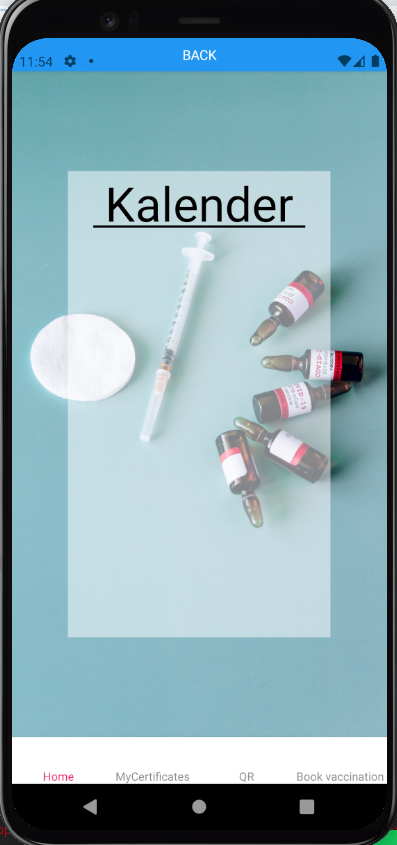
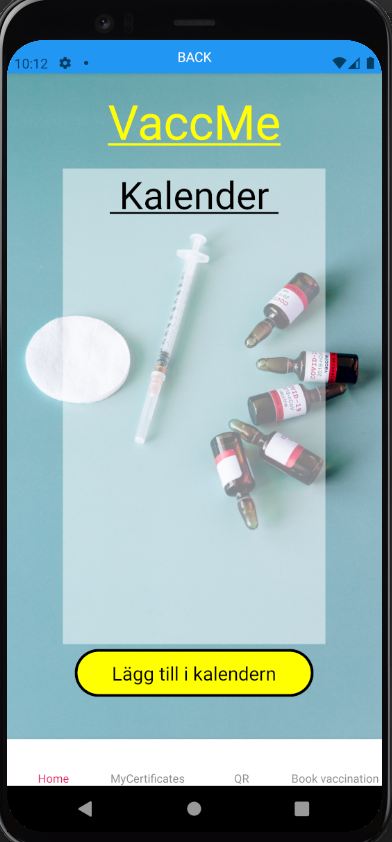
Integrated front_end_home into this branch. Uppdated PersonBookScreen

diff --git a/VaccMe/app/screens/PersonBookScreen.js b/VaccMe/app/screens/PersonBookScreen.js
@@ -1,5 +1,5 @@
 import React from 'react';
-import { ImageBackground, StyleSheet } from 'react-native';
+import { Image, ImageBackground, Text, View } from 'react-native';
 import { styleSheets } from '../styleSheets/StyleSheets';
 
 function PersonBookScreen(props) {
@@ -7,7 +7,25 @@ function PersonBookScreen(props) {
         <ImageBackground
             style={styleSheets.background}
             source={require('../assets/background.jpg')}
-        ></ImageBackground>
+        >
+            <View style={styleSheets.logo}>
+                <Text style={styleSheets.name}>VaccMe</Text>
+            </View>
+            <View style={styleSheets.tabSheet}>
+                <Text style={styleSheets.tabSheetHeader}>Boka vaccination</Text>
+                <Image
+                    style={styleSheets.vardguiden}
+                    source={require('../assets/1177.png')}
+                    onPress={() =>
+                        Linking.openURL(
+                            'https://www.1177.se/behandling--hjalpmedel/vaccinationer/'
+                        )
+                    }
+                ></Image>
+            </View>
+
+            <View style={styleSheets.filler}></View>
+        </ImageBackground>
     );
 }
 

diff --git a/VaccMe/app/screens/PersonCertScreen.js b/VaccMe/app/screens/PersonCertScreen.js
@@ -1,5 +1,5 @@
 import React from 'react';
-import { ImageBackground, StyleSheet } from 'react-native';
+import { ImageBackground, Text, TouchableHighlight, View } from 'react-native';
 import { styleSheets } from '../styleSheets/StyleSheets';
 
 function PersonCertScreen(props) {
@@ -7,7 +7,21 @@ function PersonCertScreen(props) {
         <ImageBackground
             style={styleSheets.background}
             source={require('../assets/background.jpg')}
-        ></ImageBackground>
+        >
+            <View style={styleSheets.logo}>
+                <Text style={styleSheets.name}>VaccMe</Text>
+            </View>
+            <View style={styleSheets.tabSheet}>
+                <Text style={styleSheets.tabSheetHeader}> Mina intyg </Text>
+            </View>
+            <View style={styleSheets.filler}>
+                <TouchableHighlight style={styleSheets.touchableHighlight}>
+                    <Text style={styleSheets.touchableHighlightText}>
+                        Lägg till intyg
+                    </Text>
+                </TouchableHighlight>
+            </View>
+        </ImageBackground>
     );
 }
 

diff --git a/VaccMe/app/screens/PersonHomeScreen.js b/VaccMe/app/screens/PersonHomeScreen.js
@@ -1,5 +1,5 @@
 import React from 'react';
-import { ImageBackground, Text, View } from 'react-native';
+import { ImageBackground, Text, TouchableHighlight, View } from 'react-native';
 import { styleSheets } from '../styleSheets/StyleSheets';
 
 function PersonHomeScreen(props) {
@@ -8,8 +8,18 @@ function PersonHomeScreen(props) {
             style={styleSheets.background}
             source={require('../assets/background.jpg')}
         >
+            <View style={styleSheets.logo}>
+                <Text style={styleSheets.name}>VaccMe</Text>
+            </View>
             <View style={styleSheets.tabSheet}>
                 <Text style={styleSheets.tabSheetHeader}> Kalender </Text>
+            </View>
+            <View style={styleSheets.filler}>
+                <TouchableHighlight style={styleSheets.touchableHighlight}>
+                    <Text style={styleSheets.touchableHighlightText}>
+                        Lägg till i kalendern
+                    </Text>
+                </TouchableHighlight>
             </View>
         </ImageBackground>
     );

diff --git a/VaccMe/app/styleSheets/StyleSheets.js b/VaccMe/app/styleSheets/StyleSheets.js
@@ -62,6 +62,7 @@ export const styleSheets = StyleSheet.create({
         fontSize: 20,
     },
     tabSheet: {
+        flex: 5,
         backgroundColor: tabSheetColor,
         height: '70%',
         width: '70%',
@@ -69,9 +70,13 @@ export const styleSheets = StyleSheet.create({
         alignItems: 'center',
     },
     tabSheetHeader: {
-        fontSize: 50,
+        fontSize: 40,
         textDecorationLine: 'underline',
         color: secondaryTextColor,
         opacity: 1,
+    },
+    vardguiden: {
+        height: 100,
+        width: 200,
     },
 });
